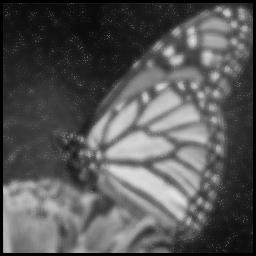
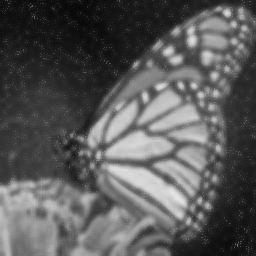
Updated p2 HW2 code

diff --git a/Homeworks/homework2_programming/p2_bilateral_filtering.py b/Homeworks/homework2_programming/p2_bilateral_filtering.py
@@ -18,36 +18,38 @@ def bilateral_filtering(
     Compute the bilaterally filtered image given an input image, kernel size, spatial variance, and intensity range variance
     """
 
-    img = img / 255
+    img = img / 255.0
     img = img.astype("float32")
-    img_filtered = np.zeros(img.shape) # Placeholder of the filtered image
+    img_filtered = np.zeros_like(img)
     xsize, ysize = img.shape
-    
-    # Todo: For each pixel position [i, j], you need to compute the filtered output: img_filtered[i, j]
-    # step 1: compute kernel_sizexkernel_size spatial and intensity range weights of the bilateral filter in terms of spatial_variance and intensity_variance. 
-    # step 2: compute the filtered pixel img_filtered[i, j] using the obtained kernel weights and the neighboring pixels of img[i, j] in the kernel_sizexkernel_size local window
-    # The bilateral filtering formula can be found in slide 15 of lecture 6
-    # Tip: use zero-padding to address the black border issue.
 
-    # ********************************
-    # Your code is here.
-    # ********************************
-    Wp = 0
-    filtered_pixel = 0
     padding = kernel_size // 2
-    img_padded = np.pad(img, ((padding, padding), (padding, padding)), mode='constant', constant_values=0)
-    for i in range(kernel_size // 2, xsize - kernel_size // 2):
-        for j in range(kernel_size // 2, ysize - kernel_size // 2):
-           
-            spatial_weight = np.exp(-(k**2 + l**2) / (2 * spatial_variance))
-            intensity_weight = np.exp(-((img[i, j] - img[i + k, j + l])**2) / (2 * intensity_variance))
-            weight = spatial_weight * intensity_weight
-            Wp += weight
-            filtered_pixel += weight * img[i + k, j + l]
+    img_padded = np.pad(img, ((padding, padding), (padding, padding)), mode="reflect")
+
+    for i in range(xsize):
+        for j in range(ysize):
+            Wp = 0.0
+            filtered_pixel = 0.0
+
+            center_val = img_padded[i + padding, j + padding]
+
+            for k in range(-padding, padding + 1):
+                for l in range(-padding, padding + 1):
+                    neighbor_val = img_padded[i + k + padding, j + l + padding]
+
+                    # Spatial Gaussian
+                    spatial_weight = np.exp(-(k**2 + l**2) / (2 * spatial_variance))
+
+                    # Intensity Gaussian
+                    intensity_weight = np.exp(-((center_val - neighbor_val) ** 2) / (2 * intensity_variance))
+
+                    weight = spatial_weight * intensity_weight
+                    Wp += weight
+                    filtered_pixel += weight * neighbor_val
+
             img_filtered[i, j] = filtered_pixel / Wp
-    
-    img_filtered = img_filtered * 255
-    img_filtered = np.uint8(img_filtered)
+
+    img_filtered = (img_filtered * 255).astype(np.uint8)
     return img_filtered
 
  
